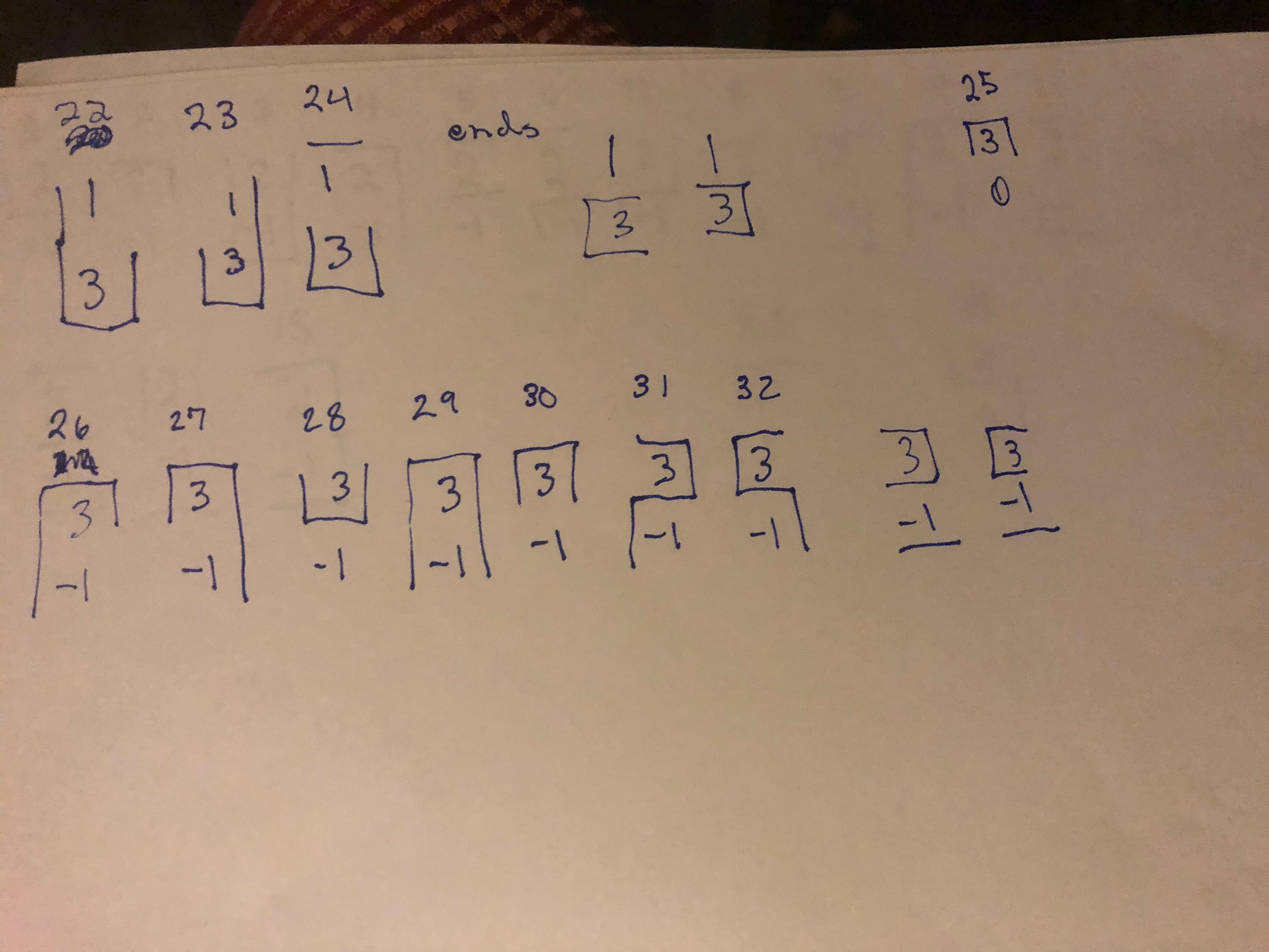
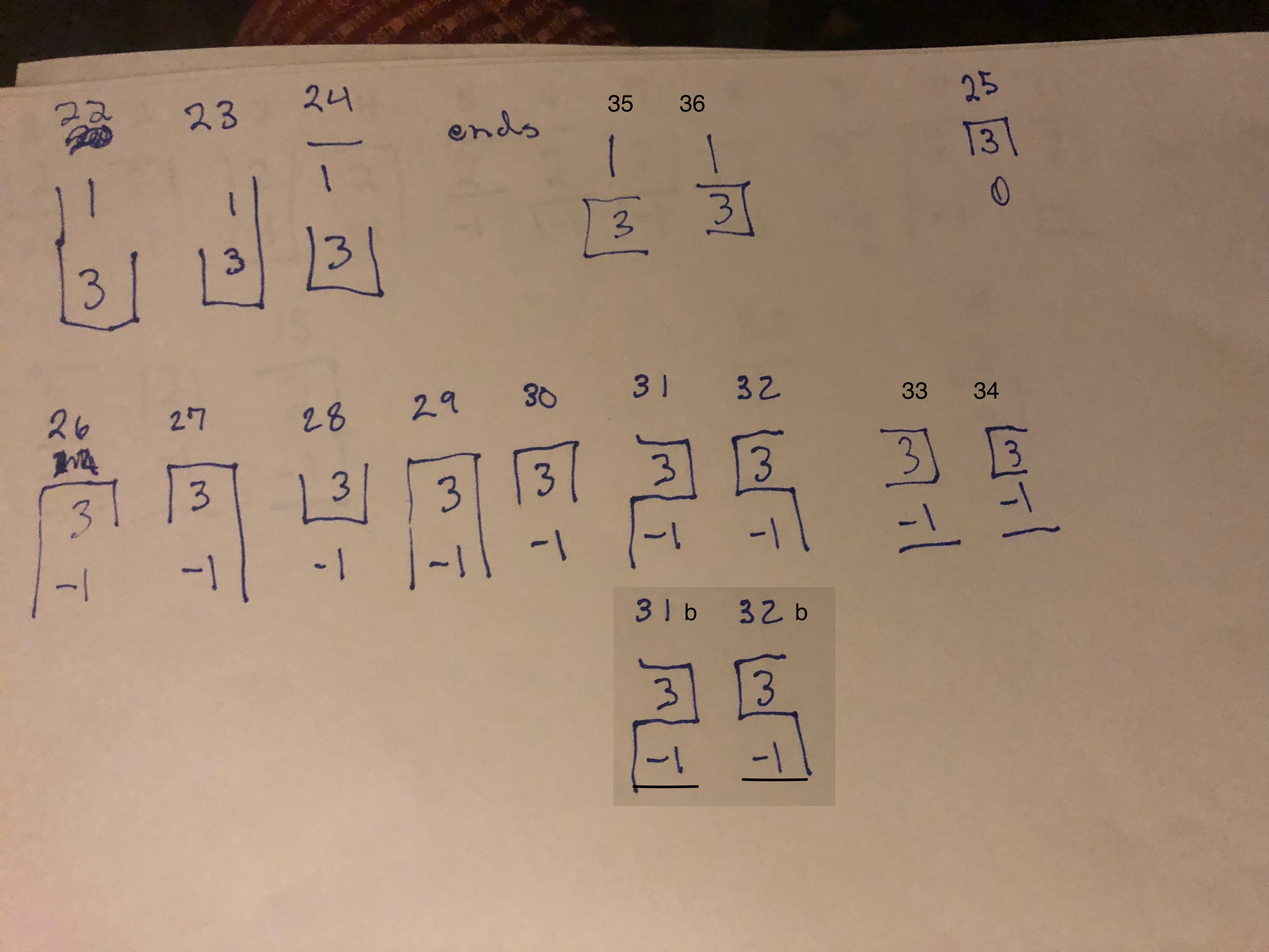
Fixing start and end lists for some configs

diff --git a/FinalProject/Grid.java b/FinalProject/Grid.java
@@ -149,7 +149,10 @@ public class Grid {
       table.put("0_0_FIVE", temp);
       populateEnds("0_0", temp);
 
-      ArrayList<GridCell> t1b3 = new ArrayList<GridCell>();
+      ArrayList<GridCell> t1b3 = new ArrayList<GridCell>(); // contains all middle t1b3 configurations
+      ArrayList<GridCell> t1b3_start = new ArrayList<GridCell>(); // key "1_2_START"
+      ArrayList<GridCell> t1b3_end = new ArrayList<GridCell>(); // key "1_2_END"
+      // ariel13_configs.jpg 24
       temp = new GridCell(0, 1, 3);
       temp.setT12(true); // single top line and all three on bottom half
       temp.setT35(true);
@@ -160,6 +163,7 @@ public class Grid {
       table.put("1_3_ONE_THREE", temp); // only valid solution with these values and two locations
       t1b3.add(temp);
 
+      // ariel13_configs.jpg 22
       temp = new GridCell(0, 1, 3);
       temp.setT13(true); 
       temp.setT35(true);
@@ -169,6 +173,7 @@ public class Grid {
       table.put("1_3_ONE", temp); // only valid solution with these values and location
       t1b3.add(temp);
 
+      // ariel13_configs.jpg 23
       temp = new GridCell(0, 1, 3);
       temp.setT35(true);
       temp.setT56(true);
@@ -177,7 +182,28 @@ public class Grid {
       temp.location = "TWO"; 
       table.put("1_3_THREE", temp); // only valid solution with these values and location
       t1b3.add(temp);
-      populateEnds( "1_3", t1b3);
+
+      // ariel13_configs.jpg 35
+      GridCell temp35 = new GridCell(0, 1, 3);
+      temp35.setT34(true);
+      temp35.setT35(true);
+      temp35.setT56(true);
+      temp35.location = "FOUR";
+      temp35.location2 = "SIX";
+      t1b3_start.add(temp35);
+
+      // ariel13_configs.jpg 36
+      GridCell temp36 = new GridCell(0, 1, 3);
+      temp36.setT34(true);
+      temp36.setT46(true);
+      temp36.setT56(true);
+      temp36.location = "END";
+      t1b3_end.add(temp36);
+
+      t1b3_start = concatenate(t1b3_start, t1b3);
+      t1b3_end = concatenate(t1b3_end, t1b3);
+      table.put("1_3_START", t1b3_start);
+      table.put("1_3_END", t1b3_end);
 
       /* For numbering of temps see image file top2_bneg1.jpg */
       ArrayList<GridCell> t2bneg1 = new ArrayList<GridCell>(); //TODO add to hash table, key "2_-1_ONE"
@@ -308,10 +334,12 @@ public class Grid {
       temp.setT56(true);
       temp.location = "ONE";
       temp.location2 = "FIVE";
-      t2bneg1_1_5.add(temp);
+
       table.put( "2_-1_ONE_FIVE", t2bneg1_1_5);
       t2bneg1 = concatenate(t2bneg1, t2bneg1_1_5);
-      populateEnds("2_-1", t2bneg1);
+      table.put("2_-1_START", t2bneg1);
+      t2bneg1.add(temp);
+      table.put("2_-1_END", t2bneg1);
 
       ArrayList<GridCell> t2b0 = new ArrayList<GridCell>();
       //top value 2, bottom value 0
@@ -473,7 +501,7 @@ public class Grid {
       temp25.location = "FOUR";
       t3bneg1_loc3.add(temp25);
       table.put("3_-1_THREE", t3bneg1_loc3);
-      concatenate(all_t3bneg1, t3bneg1_loc3);
+      all_t3bneg1 = concatenate(all_t3bneg1, t3bneg1_loc3);
 
       ArrayList<GridCell> t3bneg1_loc5 = new ArrayList<GridCell>(); //TODO add to hash table, key "3_-1_FIVE"
       GridCell temp26 = new GridCell(0, 3, -1);
@@ -484,6 +512,15 @@ public class Grid {
       temp26.location = "FOUR"; 
       t3bneg1_loc5.add(temp26);
 
+      GridCell temp32b = new GridCell(0, 3, -1);
+      temp32b.setT13(true); 
+      temp32b.setT12(true);
+      temp32b.setT56(true);
+      temp32b.setT34(true);
+      temp32b.setT46(true);
+      temp32b.location = "TWO"; 
+      t3bneg1_loc5.add(temp32b);
+
       GridCell temp29 = new GridCell(0, 3, -1);
       temp29.setT13(true); 
       temp29.setT12(true);
@@ -493,9 +530,41 @@ public class Grid {
       temp29.location = "SIX"; 
       t3bneg1_loc5.add(temp29);
       table.put("3_-1_FIVE", t3bneg1_loc5);
-      concatenate(all_t3bneg1, t3bneg1_loc5);
+      all_t3bneg1 = concatenate(all_t3bneg1, t3bneg1_loc5);
 
-      populateEnds("3_-1", all_t3bneg1);
+      GridCell temp31b = new GridCell(0, 3, -1);
+      temp31b.setT24(true); 
+      temp31b.setT12(true);
+      temp31b.setT56(true);
+      temp31b.setT34(true);
+      temp31b.setT35(true);
+      temp31b.location = "SIX"; 
+      table.put("3_-1_ONE", temp31b);
+      all_t3bneg1.add(temp31b);
+
+      ArrayList<GridCell> t3bneg1_start = new ArrayList<GridCell>(); //TODO add to hash table, key "3_-1_START"
+      ArrayList<GridCell> t3bneg1_end = new ArrayList<GridCell>(); //TODO add to hash table, key "3_-1_END"
+      GridCell temp32 = new GridCell(0, 3, -1);
+      temp32.setT13(true); 
+      temp32.setT12(true);
+      temp32.setT34(true);
+      temp32.setT46(true);
+      temp32.location = "TWO"; 
+      temp32.location2 = "SIX";
+      t3bneg1_start.add(temp32);
+
+      GridCell temp31 = new GridCell(0, 3, -1);
+      temp31.setT24(true); 
+      temp31.setT12(true);
+      temp31.setT34(true);
+      temp31.setT35(true);
+      temp31.location = "END"; 
+      t3bneg1_end.add(temp31);
+
+      t3bneg1_start = concatenate(t3bneg1_start, all_t3bneg1);
+      t3bneg1_end = concatenate(t3bneg1_end, all_t3bneg1);
+      table.put("3_-1_START", t3bneg1_start);
+      table.put("3_-1_END", t3bneg1_end);
       
       ArrayList<GridCell> all_t3b1 = new ArrayList<GridCell>();
     /* top3_bot1_through_top3_bot3.jpg */
@@ -721,6 +790,7 @@ public class Grid {
       t0b1.add(temp012);
       populateEnds("0_1", t0b1);
 
+      ArrayList<GridCell> t0b2 = new ArrayList<GridCell>();
       //Top 0  Bottom 2
       //021
       GridCell temp021 = new GridCell(0, 0, 2);
@@ -728,7 +798,7 @@ public class Grid {
       temp021.setT35(true);
       temp021.location = "SIX";
       table.put("0_1_THREE", temp021);
-      populateEnds("0_1", temp021);
+      t0b2.add(temp021);
 
       //022
       GridCell temp022 = new GridCell(0, 0, 2);
@@ -736,7 +806,7 @@ public class Grid {
       temp022.setT46(true);
       temp022.location = "FOUR";
       table.put("0_1_FIVE", temp022);
-
+      t0b2.add(temp022);
       populateEnds( "0_2", t0b2);
 
 
@@ -899,27 +969,33 @@ public class Grid {
       populateEnds("0_-1", t1bneg1);
 
       // Top 1  Bottom 0
-      ArrayList<GridCell> t1b0 = new ArrayList<GridCell>(); 
+      ArrayList<GridCell> t1b0_start = new ArrayList<GridCell>();
+      ArrayList<GridCell> t1b0_end = new ArrayList<GridCell>(); 
       //101  =====  VALID FOR LAST CELL ONLY
       GridCell temp101 = new GridCell(0, 1, 0);
       temp101.setT13(true);
-      temp101.location = "THREE";
-      table.temp101("1_0_ONE", temp101);
-      t1b0.add(temp101);
+      temp101.location = "END";
+      t1b0_end.add(temp101);
 
       //102
       GridCell temp102 = new GridCell(0, 1, 0);
       temp102.setT12(true);
       temp102.location = "TWO";
-      t1b0.add(temp102);
+      table.put("1_0_ONE", temp102);
+      t1b0_start.add(temp102);
+      t1b0_end.add(temp102);
 
-      GridCell temp103 = new GridCell(0, 1, 0);
+      /*GridCell temp103 = new GridCell(0, 1, 0);
       temp103.setT35(true);
       temp103.location = "FIVE";
-      t1b0.add(temp103);
+      t1b0.add(temp103);*/
+      temp = new GridCell(0, 1, 0);
+      temp.setT24(true);
+      temp.location = "FOUR";
+      t1b0_start.add(temp);
       
-      populateEnds("1_0", t1b0);
-
+      table.put("1_0_START", t1b0_start);
+      table.put("1_0_END", t1b0_end);
 
       // Top 1  Bottom 1
       //111
